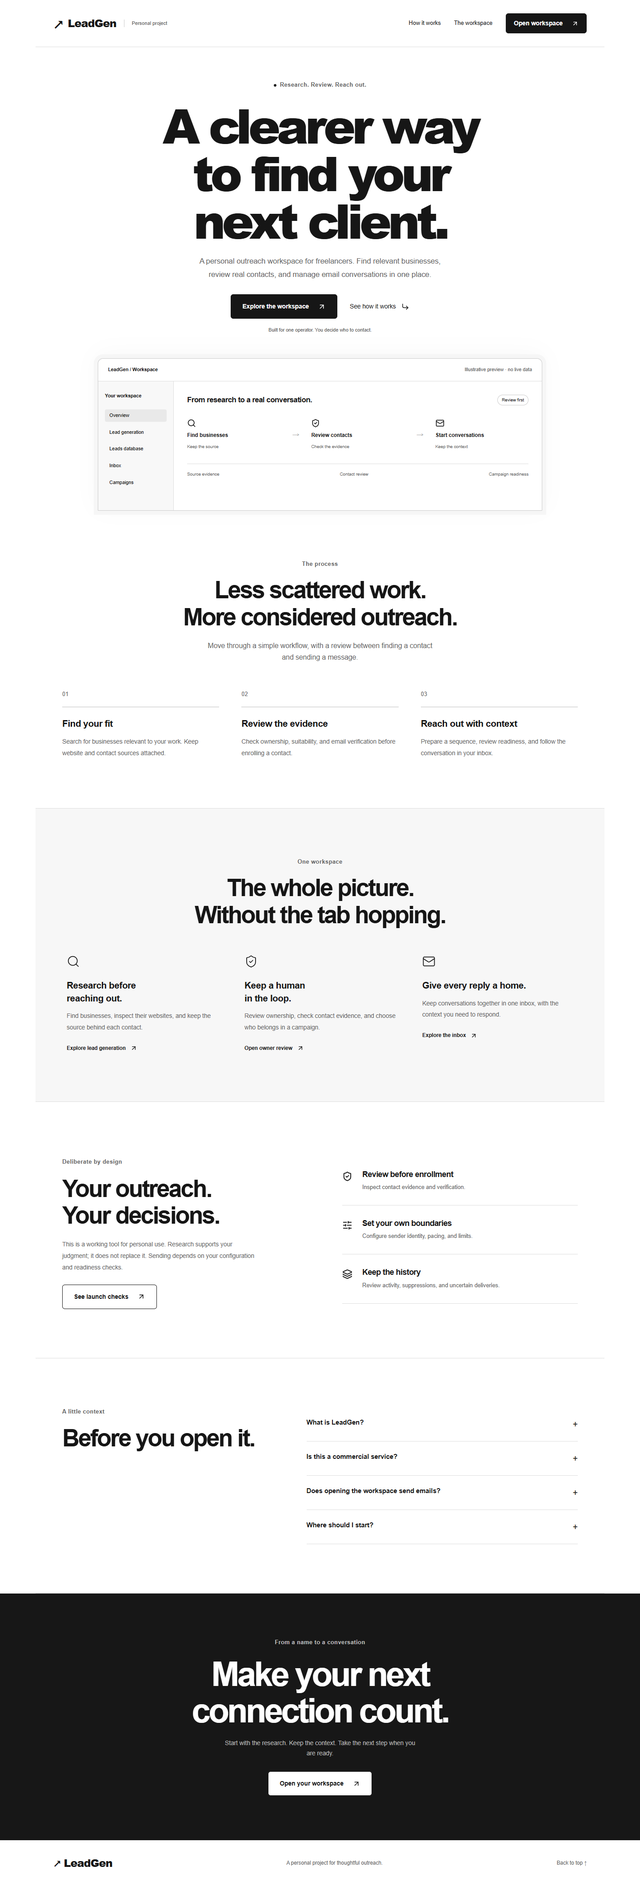
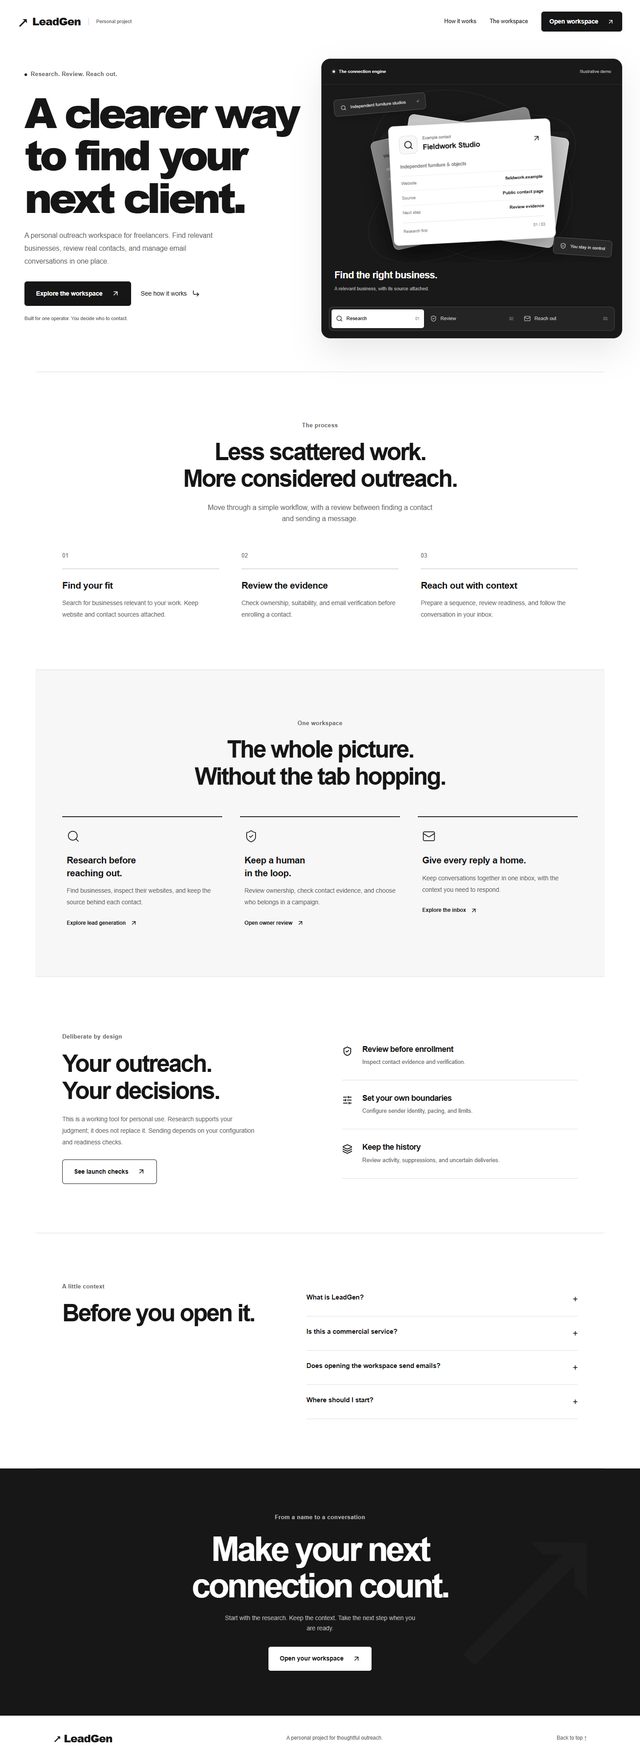
Unify workspace design and add interactive landing hero

diff --git a/dashboard/src/app/wow.css b/dashboard/src/app/wow.css
@@ -1,0 +1,51 @@
+/* The landing hero presents the actual research-to-conversation workflow. */
+.lg-nav{max-width:1440px;border-bottom:0;padding-top:23px;padding-bottom:23px}
+.lg-hero{max-width:1440px;display:grid;grid-template-columns:1fr 1.06fr;text-align:left;padding:35px 40px 75px;gap:45px;align-items:center;position:relative}
+.lg-hero-copy{padding:20px 0 30px 15px}
+.lg-hero .lg-kicker{justify-content:flex-start}
+.lg-hero h1{font-size:clamp(60px,6.5vw,94px);letter-spacing:-.075em;line-height:1.02;margin:26px 0;max-width:650px;text-wrap:initial}
+.lg-hero .lg-intro{margin:0!important;max-width:440px;font-size:16px}
+.lg-hero .lg-actions{justify-content:flex-start;gap:22px;margin-top:30px}
+.lg-hero .lg-note{margin-top:20px!important}
+.lg-demo{background:#191919;border:1px solid #292929;border-radius:20px;overflow:hidden;color:#fff;box-shadow:0 30px 70px #00000017;min-width:0;position:relative}
+.lg-demo-top{padding:20px 24px;display:flex;justify-content:space-between;align-items:center;gap:15px;font-size:10px;color:#bfbfbf;border-bottom:1px solid #ffffff16}
+.lg-demo-top>span:first-child{display:flex;align-items:center;gap:8px;color:#eee;font-weight:600}
+.lg-demo-dot{display:inline-block;width:6px;height:6px;background:#ddd;border-radius:50%;box-shadow:0 0 0 4px #ffffff0b}
+.lg-demo-scene{height:400px;position:relative;perspective:1000px;isolation:isolate;background-image:radial-gradient(#ffffff22 .6px,transparent .6px);background-size:20px 20px;overflow:hidden}
+.lg-scene-word{position:absolute;top:65px;left:50%;transform:translateX(-50%);font-size:clamp(50px,6vw,90px);font-weight:800;letter-spacing:-.08em;color:#ffffff08;white-space:nowrap;z-index:-1}
+.lg-orbit{position:absolute;border:1px solid #ffffff12;border-radius:50%;width:520px;height:240px;left:50%;top:115px;transform:translateX(-50%) rotate(-30deg);z-index:-1}
+.lg-orbit-two{transform:translateX(-50%) rotate(30deg);width:480px;height:350px;top:30px}
+.lg-source-chip,.lg-evidence-chip{position:absolute;display:flex;align-items:center;gap:9px;border:1px solid #555;background:#292929;color:#ddd;box-shadow:0 8px 20px #0003;font-size:10px;padding:10px 14px;border-radius:8px;z-index:4}
+.lg-source-chip{top:26px;left:27px;transform:rotate(-5deg)}
+.lg-source-chip>span{margin-left:15px;color:#999}
+.lg-evidence-chip{bottom:15px;right:22px;transform:rotate(4deg)}
+.lg-paper{position:absolute;width:76%;max-width:365px;border-radius:12px;left:50%;top:85px;padding:22px;box-shadow:0 22px 50px #0005;color:#171717;transition:transform .6s cubic-bezier(.2,.75,.25,1)}
+.lg-paper-back{background:#888;transform:translateX(-50%) rotate(-13deg) translate(-24px,-4px);height:250px;border:1px solid #aaa}
+.lg-paper-back>span{font-size:10px}.lg-paper-back>div{height:6px;background:#ffffff44;margin-top:16px;width:60%;border-radius:3px}
+.lg-paper-middle{background:#cfcfcf;transform:translateX(-50%) rotate(9deg) translate(21px,4px);height:250px;border:1px solid #eee;display:flex;flex-direction:column;gap:20px}
+.lg-paper-middle strong{font-size:18px}.lg-paper-middle>span{font-size:10px}
+.lg-paper-front{background:#fff;transform:translateX(-50%) rotate(-3deg);border:1px solid #ddd;min-height:260px;animation:lg-card-in .5s both}
+.lg-demo-scene[data-step="1"] .lg-paper-back{transform:translateX(-50%) rotate(-17deg) translate(-26px,-5px)}
+.lg-demo-scene[data-step="1"] .lg-paper-middle{transform:translateX(-50%) rotate(13deg) translate(22px,8px)}
+.lg-demo-scene[data-step="2"] .lg-paper-middle{transform:translateX(-50%) rotate(6deg) translate(25px,4px)}
+.lg-paper-heading{display:flex;align-items:center;gap:12px;font-size:9px;color:#686868}
+.lg-paper-heading>svg{margin-left:auto;color:#171717}.lg-paper-heading strong{display:block;color:#171717;font-size:17px;letter-spacing:-.5px}
+.lg-demo-icon{display:grid;place-items:center;width:41px;height:41px;border:1px solid #ddd;border-radius:10px;color:#171717;background:#f8f8f8}
+.lg-demo-record>p{font-size:11px;color:#656565;margin:19px 0 12px!important}
+.lg-demo-record dl>div{display:flex;justify-content:space-between;gap:10px;border-top:1px solid #eee;padding:8px 0;font-size:10px}
+.lg-demo-record dt{color:#777}.lg-demo-record dd{margin:0;font-weight:600}
+.lg-demo-record ul{list-style:none;display:flex;flex-direction:column;gap:12px;margin:18px 0 20px;padding:0}.lg-demo-record li{font-size:11px;display:flex;gap:8px;align-items:center}
+.lg-demo-message{padding:16px 0;font-size:11px}.lg-demo-message>span{display:block;color:#777;font-size:9px}.lg-demo-message>strong{display:block;margin:9px 0}.lg-demo-message p{line-height:1.8;margin-bottom:10px!important}
+.lg-paper-footer{border-top:1px solid #e4e4e4;padding-top:12px;margin-top:6px;display:flex;justify-content:space-between;color:#777;font-size:9px}
+.lg-demo-caption{padding:15px 28px 22px;min-height:100px}.lg-demo-caption h2{font-size:22px;letter-spacing:-.7px}.lg-demo-caption p{font-size:11px;color:#aaa;margin-top:8px!important}
+.lg-demo-controls{display:grid;grid-template-columns:repeat(3,1fr);margin:0 16px 16px;gap:4px;border:1px solid #444;border-radius:9px;padding:5px;background:#242424}
+.lg-demo-controls button{appearance:none;display:flex;align-items:center;gap:8px;border:0;background:transparent;color:#bcbcbc;padding:12px 10px;border-radius:5px;font:inherit;font-size:11px;cursor:pointer;text-align:left}
+.lg-demo-controls button[aria-pressed="true"]{background:#fff;color:#171717;box-shadow:0 2px 10px #0002}.lg-demo-controls button:hover:not([aria-pressed="true"]){background:#333;color:#fff}.lg-demo-controls button:focus-visible{outline:2px solid #fff;outline-offset:3px}.lg-control-index{margin-left:auto;font-size:9px;opacity:.6}
+.lg-workflow{border-top:1px solid var(--line)}
+.lg-feature-grid article{border-top:2px solid #222;padding-top:28px}
+.lg-closing{position:relative;isolation:isolate;overflow:hidden}.lg-closing::before{content:'↗';position:absolute;font-size:550px;line-height:1;right:4%;top:0;color:#ffffff06;z-index:-1}
+@keyframes lg-card-in{from{opacity:0;transform:translateX(-50%) translateY(15px) rotate(1deg)}to{opacity:1;transform:translateX(-50%) rotate(-3deg)}}
+@media(min-width:1600px){.lg-hero{padding-top:70px;padding-bottom:110px}}
+@media(max-width:1000px){.lg-hero{gap:28px;padding-left:28px;padding-right:28px}.lg-hero h1{font-size:65px}.lg-demo-controls button{padding:10px 5px;gap:5px}.lg-control-index{display:none}.lg-demo-scene{height:380px}.lg-paper{width:80%;padding:18px}.lg-demo-caption h2{font-size:20px}.lg-demo-top{padding:18px;font-size:9px}.lg-demo-caption{padding-left:20px}}
+@media(max-width:760px){.lg-hero{grid-template-columns:1fr;padding:30px 22px 55px;gap:28px}.lg-hero-copy{padding:5px 0 10px}.lg-hero h1{font-size:clamp(56px,13vw,80px);margin:22px 0;max-width:540px}.lg-hero .lg-intro{max-width:490px;font-size:15px}.lg-hero .lg-actions{gap:18px}.lg-demo{border-radius:16px}.lg-demo-scene{height:365px}.lg-paper{top:78px;max-width:360px;min-height:250px}.lg-demo-caption{min-height:100px;padding:12px 23px 23px}.lg-demo-caption h2{font-size:21px}.lg-demo-controls button{padding:12px 8px;gap:7px}.lg-source-chip{left:15px;top:25px;font-size:9px}.lg-evidence-chip{right:14px;bottom:13px}.lg-orbit{width:400px}.lg-demo-top{padding:18px 20px}.lg-scene-word{font-size:66px}.lg-demo-record dl>div{font-size:9px}.lg-paper-heading strong{font-size:16px}}
+@media(prefers-reduced-motion:reduce){.lg-paper{animation:none;transition:none}}

diff --git a/dashboard/src/app/monochrome.css b/dashboard/src/app/monochrome.css
@@ -1,0 +1,28 @@
+/* Shared visual language for every workspace route and the sign-in page. */
+:root{
+  --font-inter:Arial,Helvetica,sans-serif;--font-serif:Arial,Helvetica,sans-serif;
+  --bg-base:#fafafa;--bg-surface:#fff;--bg-elevated:#fff;--bg-neutral-muted:#f1f1f1;
+  --text-primary:#171717;--text-secondary:#555;--text-muted:#686868;--text-disabled:#737373;
+  --border-subtle:#e8e8e8;--border-default:#dedede;--border-strong:#bdbdbd;
+  --honey-50:#fafafa;--honey-100:#f1f1f1;--honey-200:#e5e5e5;--honey-500:#292929;--honey-600:#171717;--honey-glow:#0000000c;
+  --success:#343434;--success-bg:#f0f0f0;--warning:#343434;--warning-bg:#ededed;--danger:#171717;--danger-bg:#e9e9e9;
+  --radius-sm:6px;--radius-md:8px;--radius-lg:10px;--radius-xl:12px;--radius-2xl:16px;
+}
+.app-body,.login-body{font-family:Arial,Helvetica,sans-serif}
+.app-body h1,.login-body h1{font-family:var(--font-inter);letter-spacing:-.055em;font-weight:800;line-height:1.15}
+.app-body h2,.app-body h3,.login-body h2{font-family:var(--font-inter);letter-spacing:-.035em}
+.sidebar{background:#f5f5f5;border-right:1px solid var(--border-default)}
+.sidebar-brand{padding:28px 24px 24px}.sidebar-brand strong{font-size:25px;letter-spacing:-1.2px}.sidebar-brand strong::before{content:'↗';margin-right:9px}.sidebar-brand p{color:var(--text-secondary);font-size:12px;margin:3px 0 16px}.sidebar-brand span{display:inline-block;border:1px solid #d3d3d3;border-radius:20px;padding:4px 9px;background:white;font-size:10px}
+.sidebar nav{padding:16px 12px;gap:3px}.nav-link{font-size:12px;padding:11px 13px;border-radius:6px}.nav-link.active{background:#171717;color:white;box-shadow:0 2px 6px #00000014}.nav-link.active .badge{background:#fff;color:#171717}.nav-link:hover:not(.active){background:#e9e9e9}
+.workspace-page{padding:42px;gap:25px}.page-heading{padding-bottom:25px;border-bottom:1px solid var(--border-default);gap:20px}.page-heading h1{font-size:34px}.page-heading p{font-size:13px;margin-top:12px}
+.btn{border-radius:6px;box-shadow:none;font-weight:600;letter-spacing:-.01em}.btn-primary{background:#171717;color:#fff;border:1px solid #171717}.btn-primary:hover{background:#363636;color:#fff;box-shadow:0 3px 10px #00000012}.btn-danger{border:1px solid #777;background:#fff;color:#171717}.btn-danger:hover{background:#171717;color:#fff;box-shadow:none}.btn:disabled{opacity:.45}
+.input,input,select,textarea{accent-color:#171717}.input:focus{border-color:#555;box-shadow:0 0 0 3px #0000000b}
+.card,.glass-panel,.glass-panel-raised{border:1px solid var(--border-default);box-shadow:0 2px 5px #00000003}.card:hover{transform:none;box-shadow:0 2px 8px #00000006}
+.overview-metrics{gap:16px}.overview-metrics>div{padding:23px;border:1px solid var(--border-default);background:#fff;border-radius:10px}.overview-metrics dt{font-size:12px}.overview-metrics dd{font-size:38px;letter-spacing:-1.5px;margin-top:14px}
+.next-actions{padding:28px;background:#f1f1f1;border:1px solid var(--border-default);border-radius:10px}.next-actions h2{font-size:22px}.next-actions ol{margin-top:18px}.next-actions a{text-underline-offset:4px}
+.lead-table th{background:#f3f3f3;color:#555;font-size:11px}.lead-table td{font-size:12px}.lead-table tbody tr:hover{background:#f8f8f8}
+.status-warning,.error-message{border-left:3px solid #333;background:#eee;color:#171717}.badge{background:#e8e8e8;color:#171717;border-color:#ccc}
+.login-page{background:radial-gradient(#ddd .7px,transparent .7px),#fafafa;background-size:18px 18px}.login-form{box-shadow:0 20px 70px #0000000b;padding:36px;border-radius:16px}.login-form h1{font-size:30px}.login-form small{font-size:11px}
+.app-dialog::backdrop{background:#0007}.mobile-header strong{font-weight:800;letter-spacing:-.8px}.mobile-header strong::before{content:'↗';margin-right:8px}
+@media(max-width:1000px){.workspace-page{padding:28px}.page-heading h1{font-size:30px}}
+@media(max-width:760px){.workspace-page{padding:24px 16px}.page-heading{padding-bottom:20px}.page-heading h1{font-size:28px}.overview-metrics{grid-template-columns:repeat(2,minmax(0,1fr));gap:10px}.overview-metrics>div{padding:16px}.overview-metrics dd{font-size:30px}.overview-metrics dt{font-size:11px}.next-actions{padding:20px}.login-form{padding:26px}}

diff --git a/dashboard/src/app/page.tsx b/dashboard/src/app/page.tsx
@@ -1,6 +1,8 @@
 import Link from 'next/link';
 import {ArrowUpRight, Search, Mail, SlidersHorizontal, ShieldCheck, Layers, CornerDownRight} from 'lucide-react';
 import './landing.css';
+import './wow.css';
+import WorkflowDemo from './WorkflowDemo';
 
 const features = [
   {icon: Search, title: 'Research before reaching out.', text: 'Find businesses, inspect their websites, and keep the source behind each contact.', href: '/leadgen', link: 'Explore lead generation'},
@@ -13,15 +15,12 @@ export default function LandingPage() {
     <header className="lg-nav"><Link href="/" className="lg-brand"><span className="lg-mark" aria-hidden="true">↗</span> LeadGen<span className="lg-project">Personal project</span></Link><nav aria-label="Landing navigation"><a href="#workflow">How it works</a><a href="#workspace">The workspace</a><Link href="/overview" className="lg-button lg-small">Open workspace <ArrowUpRight size={16}/></Link></nav></header>
     <main id="landing-main">
       <section className="lg-hero">
-        <p className="lg-kicker"><span/> Research. Review. Reach out.</p>
+        <div className="lg-hero-copy"><p className="lg-kicker"><span/> Research. Review. Reach out.</p>
         <h1>A clearer way<br/>to find your<br/>next client.</h1>
         <p className="lg-intro">A personal outreach workspace for freelancers. Find relevant businesses, review real contacts, and manage email conversations in one place.</p>
         <div className="lg-actions"><Link href="/overview" className="lg-button">Explore the workspace <ArrowUpRight size={18}/></Link><a href="#workflow" className="lg-plain">See how it works <CornerDownRight size={18}/></a></div>
         <p className="lg-note">Built for one operator. You decide who to contact.</p>
-        <div className="lg-preview" aria-label="Illustrative outreach workspace preview">
-          <div className="lg-preview-bar"><strong>LeadGen / Workspace</strong><span>Illustrative preview · no live data</span></div>
-          <div className="lg-preview-body"><aside><strong>Your workspace</strong><span className="lg-selected">Overview</span><span>Lead generation</span><span>Leads database</span><span>Inbox</span><span>Campaigns</span></aside><div className="lg-preview-content"><div className="lg-preview-title"><h2>From research to a real conversation.</h2><span>Review first</span></div><div className="lg-flow"><div><Search size={20}/><strong>Find businesses</strong><span>Keep the source</span></div><b aria-hidden="true">→</b><div><ShieldCheck size={20}/><strong>Review contacts</strong><span>Check the evidence</span></div><b aria-hidden="true">→</b><div><Mail size={20}/><strong>Start conversations</strong><span>Keep the context</span></div></div><div className="lg-preview-bottom"><span>Source evidence</span><span>Contact review</span><span>Campaign readiness</span></div></div></div>
-        </div>
+        </div><WorkflowDemo />
       </section>
       <section id="workflow" className="lg-section lg-workflow"><div className="lg-section-heading"><p className="lg-kicker">The process</p><h2>Less scattered work.<br/>More considered outreach.</h2><p>Move through a simple workflow, with a review between finding a contact and sending a message.</p></div><ol className="lg-steps">{[['Find your fit','Search for businesses relevant to your work. Keep website and contact sources attached.'],['Review the evidence','Check ownership, suitability, and email verification before enrolling a contact.'],['Reach out with context','Prepare a sequence, review readiness, and follow the conversation in your inbox.']].map(([title,text],i)=><li key={title}><span>{String(i+1).padStart(2,'0')}</span><h3>{title}</h3><p>{text}</p></li>)}</ol></section>
       <section id="workspace" className="lg-section lg-features"><div className="lg-section-heading"><p className="lg-kicker">One workspace</p><h2>The whole picture.<br/>Without the tab hopping.</h2></div><div className="lg-feature-grid">{features.map(({icon:Icon,title,text,href,link})=><article key={title}><Icon size={30} strokeWidth={1.4}/><h3>{title}</h3><p>{text}</p><Link href={href}>{link}<ArrowUpRight size={16}/></Link></article>)}</div></section>

diff --git a/dashboard/src/app/WorkflowDemo.tsx b/dashboard/src/app/WorkflowDemo.tsx
@@ -1,0 +1,33 @@
+'use client';
+
+import {useState} from 'react';
+import {ArrowUpRight, Check, Search, Mail, ShieldCheck} from 'lucide-react';
+
+const stages = [
+  {title: 'Find the right business.', description: 'A relevant business, with its source attached.', icon: Search},
+  {title: 'Look beyond an email.', description: 'Review the person, the business, and the evidence.', icon: ShieldCheck},
+  {title: 'Begin a conversation.', description: 'Bring the research into a thoughtful first message.', icon: Mail},
+];
+
+export default function WorkflowDemo() {
+  const [step,setStep]=useState(0);
+  const Icon=stages[step].icon;
+  return <div className="lg-demo" aria-label="Interactive example workflow">
+    <div className="lg-demo-top"><span><span className="lg-demo-dot"/> The connection engine</span><span>Illustrative demo</span></div>
+    <div className="lg-demo-scene" data-step={step}>
+      <div className="lg-orbit lg-orbit-one" aria-hidden="true"/><div className="lg-orbit lg-orbit-two" aria-hidden="true"/>
+      <span className="lg-scene-word" aria-hidden="true">CONNECT</span>
+      <div className="lg-source-chip"><Search size={13}/> Independent furniture studios <span>↵</span></div>
+      <div className="lg-paper lg-paper-back" aria-hidden="true"><span>Website evidence</span><div/><div/><div/></div>
+      <div className="lg-paper lg-paper-middle" aria-hidden="true"><ShieldCheck size={20}/><strong>People before lists.</strong><span>Source → Review → Conversation</span></div>
+      <div className="lg-paper lg-paper-front" key={step}>
+        <div className="lg-paper-heading"><span className="lg-demo-icon"><Icon size={22}/></span><span>Example contact<br/><strong>Fieldwork Studio</strong></span><ArrowUpRight size={19}/></div>
+        {step===0?<div className="lg-demo-record"><p>Independent furniture & objects</p><dl><div><dt>Website</dt><dd>fieldwork.example</dd></div><div><dt>Source</dt><dd>Public contact page</dd></div><div><dt>Next step</dt><dd>Review evidence</dd></div></dl></div>:step===1?<div className="lg-demo-record"><p>A considered contact starts here.</p><ul><li><Check size={15}/> Inspect the source</li><li><Check size={15}/> Confirm business fit</li><li><ShieldCheck size={15}/> Verify before enrollment</li></ul></div>:<div className="lg-demo-message"><span>Draft · not sent</span><strong>A thought for Fieldwork</strong><p>Hi there,<br/>I came across your furniture collection and had an idea for making the pieces easier to explore online.</p><span>Personal context. A clear reason to connect.</span></div>}
+        <div className="lg-paper-footer"><span>{['Research first','Your review matters','A conversation, with context'][step]}</span><span>0{step+1} / 03</span></div>
+      </div>
+      <span className="lg-evidence-chip"><ShieldCheck size={14}/> You stay in control</span>
+    </div>
+    <div className="lg-demo-caption" aria-live="polite"><h2>{stages[step].title}</h2><p>{stages[step].description}</p></div>
+    <div className="lg-demo-controls" role="group" aria-label="Explore the example workflow">{stages.map(({icon:StageIcon},index)=><button type="button" key={index} aria-pressed={step===index} onClick={()=>setStep(index)}><StageIcon size={15}/><span>{['Research','Review','Reach out'][index]}</span><span className="lg-control-index">0{index+1}</span></button>)}</div>
+  </div>;
+}

diff --git a/dashboard/src/app/leadgen/page.tsx b/dashboard/src/app/leadgen/page.tsx
@@ -289,9 +289,9 @@ export default function LeadGenPage() {
                   borderRadius: '12px',
                   fontSize: '12px',
                   fontWeight: 700,
-                  background: 'rgba(74, 109, 75, 0.15)',
+                  background: 'var(--success-bg)',
                   color: 'var(--success)',
-                  border: '1px solid rgba(74, 109, 75, 0.3)',
+                  border: '1px solid var(--border-strong)',
                 }}
               >
                 <span style={{ width: '8px', height: '8px', borderRadius: '50%', background: 'var(--success)', display: 'inline-block' }} />
@@ -344,8 +344,8 @@ export default function LeadGenPage() {
                 display: 'flex',
                 alignItems: 'center',
                 gap: '6px',
-                background: 'rgba(181, 78, 69, 0.1)',
-                borderColor: 'rgba(181, 78, 69, 0.3)',
+                background: 'var(--danger-bg)',
+                borderColor: 'var(--border-strong)',
                 color: 'var(--danger)',
               }}
             >
@@ -811,8 +811,8 @@ export default function LeadGenPage() {
 
           <pre
             style={{
-              background: '#111317',
-              color: '#4ade80',
+              background: '#171717',
+              color: '#dddddd',
               padding: '16px',
               borderRadius: '12px',
               fontSize: '12px',
@@ -820,7 +820,7 @@ export default function LeadGenPage() {
               height: '420px',
               overflowY: 'auto',
               whiteSpace: 'pre-wrap',
-              border: '1px solid #23272f',
+              border: '1px solid #444444',
               boxShadow: 'inset 0 2px 8px rgba(0, 0, 0, 0.4)',
             }}
           >

diff --git a/dashboard/src/app/unsubscribes/page.tsx b/dashboard/src/app/unsubscribes/page.tsx
@@ -156,13 +156,13 @@ export default function UnsubscribesPage() {
       <AnimatePresence mode="wait">
         {error && (
           <motion.div initial={{ opacity: 0, y: -8 }} animate={{ opacity: 1, y: 0 }} exit={{ opacity: 0, y: -8 }}
-            style={{ display: 'flex', alignItems: 'center', gap: '10px', padding: '12px 16px', background: 'var(--danger-bg)', border: '1px solid rgba(181, 78, 69, 0.18)', borderRadius: '12px', fontSize: '13px', color: 'var(--danger)' }}>
+            style={{ display: 'flex', alignItems: 'center', gap: '10px', padding: '12px 16px', background: 'var(--danger-bg)', border: '1px solid var(--border-strong)', borderRadius: '12px', fontSize: '13px', color: 'var(--danger)' }}>
             <AlertCircle size={15} style={{ flexShrink: 0 }} /> {error}
           </motion.div>
         )}
         {success && (
           <motion.div initial={{ opacity: 0, y: -8 }} animate={{ opacity: 1, y: 0 }} exit={{ opacity: 0, y: -8 }}
-            style={{ display: 'flex', alignItems: 'center', gap: '10px', padding: '12px 16px', background: 'var(--success-bg)', border: '1px solid rgba(74, 109, 75, 0.18)', borderRadius: '12px', fontSize: '13px', color: 'var(--success)' }}>
+            style={{ display: 'flex', alignItems: 'center', gap: '10px', padding: '12px 16px', background: 'var(--success-bg)', border: '1px solid var(--border-strong)', borderRadius: '12px', fontSize: '13px', color: 'var(--success)' }}>
             <CheckCircle size={15} style={{ flexShrink: 0 }} /> {success}
           </motion.div>
         )}

diff --git a/dashboard/src/components/ui/status-badge.tsx b/dashboard/src/components/ui/status-badge.tsx
@@ -23,7 +23,7 @@ export const StatusBadge: React.FC<StatusBadgeProps> = ({ variant, label, showIc
     case 'good':
       bg = 'var(--success-bg)';
       color = 'var(--success)';
-      border = 'rgba(74, 109, 75, 0.2)';
+      border = 'var(--border-strong)';
       Icon = ShieldCheck;
       text = text || 'Healthy';
       break;
@@ -31,7 +31,7 @@ export const StatusBadge: React.FC<StatusBadgeProps> = ({ variant, label, showIc
     case 'warning':
       bg = 'var(--warning-bg)';
       color = 'var(--warning)';
-      border = 'rgba(198, 120, 43, 0.2)';
+      border = 'var(--border-strong)';
       Icon = AlertTriangle;
       text = text || 'Watch';
       break;
@@ -40,7 +40,7 @@ export const StatusBadge: React.FC<StatusBadgeProps> = ({ variant, label, showIc
     case 'danger':
       bg = 'var(--danger-bg)';
       color = 'var(--danger)';
-      border = 'rgba(181, 78, 69, 0.2)';
+      border = 'var(--border-strong)';
       Icon = ShieldAlert;
       text = text || 'Paused';
       break;

diff --git a/dashboard/src/components/ui/toast.tsx b/dashboard/src/components/ui/toast.tsx
@@ -54,7 +54,7 @@ export const ToastProvider: React.FC<{ children: React.ReactNode }> = ({ childre
             const isSuccess = t.type === 'success';
             const isError = t.type === 'error';
             const bg = isSuccess ? 'var(--success-bg)' : isError ? 'var(--danger-bg)' : 'var(--bg-surface)';
-            const border = isSuccess ? 'rgba(74, 109, 75, 0.25)' : isError ? 'rgba(181, 78, 69, 0.25)' : 'var(--border-default)';
+            const border = isSuccess ? 'var(--border-strong)' : isError ? 'var(--border-strong)' : 'var(--border-default)';
             const color = isSuccess ? 'var(--success)' : isError ? 'var(--danger)' : 'var(--text-primary)';
             const Icon = isSuccess ? CheckCircle : isError ? AlertCircle : Info;
 

diff --git a/dashboard/src/app/inbox/page.tsx b/dashboard/src/app/inbox/page.tsx
@@ -287,7 +287,7 @@ export default function InboxPage() {
                     {/* Sentiment Pill */}
                     <div style={{ display: 'flex', gap: '6px', marginTop: '6px', alignItems: 'center' }}>
                       {thread.sentiment === 'meeting_requested' && (
-                        <span style={{ fontSize: '10px', fontWeight: 700, padding: '2px 6px', borderRadius: '4px', background: 'rgba(74, 109, 75, 0.15)', color: 'var(--success)' }}>
+                        <span style={{ fontSize: '10px', fontWeight: 700, padding: '2px 6px', borderRadius: '4px', background: 'var(--success-bg)', color: 'var(--success)' }}>
                           Meeting Call
                         </span>
                       )}

diff --git a/dashboard/src/components/ui/card.tsx b/dashboard/src/components/ui/card.tsx
@@ -26,7 +26,7 @@ export const Card: React.FC<CardProps> = ({
         border: '1px solid var(--border-subtle)',
         borderRadius: '16px',
         padding: '24px',
-        boxShadow: '0 2px 8px rgba(44, 34, 25, 0.02)',
+        boxShadow: '0 2px 8px rgba(0, 0, 0, 0.02)',
         transition: 'all 0.15s ease',
         cursor: onClick ? 'pointer' : 'default',
         ...style,

diff --git a/dashboard/src/app/layout.tsx b/dashboard/src/app/layout.tsx
@@ -1,6 +1,7 @@
 'use client';
 import './globals.css';
 import './repairs.css';
+import './monochrome.css';
 import Link from 'next/link';
 import {usePathname} from 'next/navigation';
 import {useEffect,useState} from 'react';

diff --git a/README.md b/README.md
@@ -90,7 +90,7 @@ LeadGen is a personal, single-operator research and outreach project. The monoch
 
 ### Website screenshots
 
-Captured from a local preview with isolated temporary data and live email disabled. The operational dashboard retains its existing styling.
+Captured from a local preview with isolated temporary data and live email disabled. All workspace pages and sign-in share the monochrome palette, sans-serif typography, buttons, forms, and navigation. The hero includes an interactive three-stage research → review → reach out demo with layered contact cards and reduced-motion support.
 
 ![LeadGen landing page — desktop](docs/screenshots/landing-desktop.png)
 
@@ -101,20 +101,20 @@ Captured from a local preview with isolated temporary data and live email disabl
 ### All application pages and features
 
 - `/` — Project landing page: six monochrome sections, workflow illustration, feature links, expandable FAQ, and workspace entry points.
-- `/overview` — Outreach overview: observed campaign totals, campaign state and controls, setup links, recent activity, and refresh status.
-- `/login` — Administrator sign-in for password-protected mode; local-only mode opens without sign-in.
-- `/leadgen` — Lead generation: business search and scraping controls, progress, and collected lead information.
-- `/leads` — Leads database: contact search and filtering, source review, verification, enrollment, and working-record management.
-- `/research` — Owner review: direct-contact evidence, ownership and business-size qualification, and targeting review.
-- `/inbox` — Conversations: incoming replies, thread history, unread status, and manual responses.
-- `/sequences` — Campaign sequence: template selection, follow-up delays, and step ordering.
-- `/templates` — Email templates: subject/body editing, variants, and message previews.
-- `/accounts` — Sending accounts: mailbox connection settings, credentials, account controls, and diagnostics.
-- `/health` — Health center: account readiness, diagnostic results, worker/monitor heartbeat, and protection status.
-- `/launch` — Launch checks: preflight review before a live pilot.
-- `/delivery` — Delivery review: inspect uncertain send attempts and record a reviewed disposition.
-- `/unsubscribes` — Suppression management: review and manage opted-out recipients.
-- `/logs` — Audit logs: inspect recorded operational activity.
-- `/settings` — Configuration: sender identity, postal address, outreach settings, limits, and scheduling.
+- `/overview` — Outreach overview: observed campaign totals, campaign state and controls, setup links, recent activity, and refresh status. [Screenshot](docs/screenshots/overview-desktop.png)
+- `/login` — Administrator sign-in for password-protected mode; local-only mode opens without sign-in. [Screenshot](docs/screenshots/login-desktop.png)
+- `/leadgen` — Lead generation: business search and scraping controls, progress, and collected lead information. [Screenshot](docs/screenshots/leadgen-desktop.png)
+- `/leads` — Leads database: contact search and filtering, source review, verification, enrollment, and working-record management. [Screenshot](docs/screenshots/leads-desktop.png)
+- `/research` — Owner review: direct-contact evidence, ownership and business-size qualification, and targeting review. [Screenshot](docs/screenshots/research-desktop.png)
+- `/inbox` — Conversations: incoming replies, thread history, unread status, and manual responses. [Screenshot](docs/screenshots/inbox-desktop.png)
+- `/sequences` — Campaign sequence: template selection, follow-up delays, and step ordering. [Screenshot](docs/screenshots/sequences-desktop.png)
+- `/templates` — Email templates: subject/body editing, variants, and message previews. [Screenshot](docs/screenshots/templates-desktop.png)
+- `/accounts` — Sending accounts: mailbox connection settings, credentials, account controls, and diagnostics. [Screenshot](docs/screenshots/accounts-desktop.png)
+- `/health` — Health center: account readiness, diagnostic results, worker/monitor heartbeat, and protection status. [Screenshot](docs/screenshots/health-desktop.png)
+- `/launch` — Launch checks: preflight review before a live pilot. [Screenshot](docs/screenshots/launch-desktop.png)
+- `/delivery` — Delivery review: inspect uncertain send attempts and record a reviewed disposition. [Screenshot](docs/screenshots/delivery-desktop.png)
+- `/unsubscribes` — Suppression management: review and manage opted-out recipients. [Screenshot](docs/screenshots/unsubscribes-desktop.png)
+- `/logs` — Audit logs: inspect recorded operational activity. [Screenshot](docs/screenshots/logs-desktop.png)
+- `/settings` — Configuration: sender identity, postal address, outreach settings, limits, and scheduling. [Screenshot](docs/screenshots/settings-desktop.png)
 
 The sending worker runs separately from the dashboard. Opening a page does not start a campaign. Public opt-out and tracking handlers are API endpoints, not application pages.
